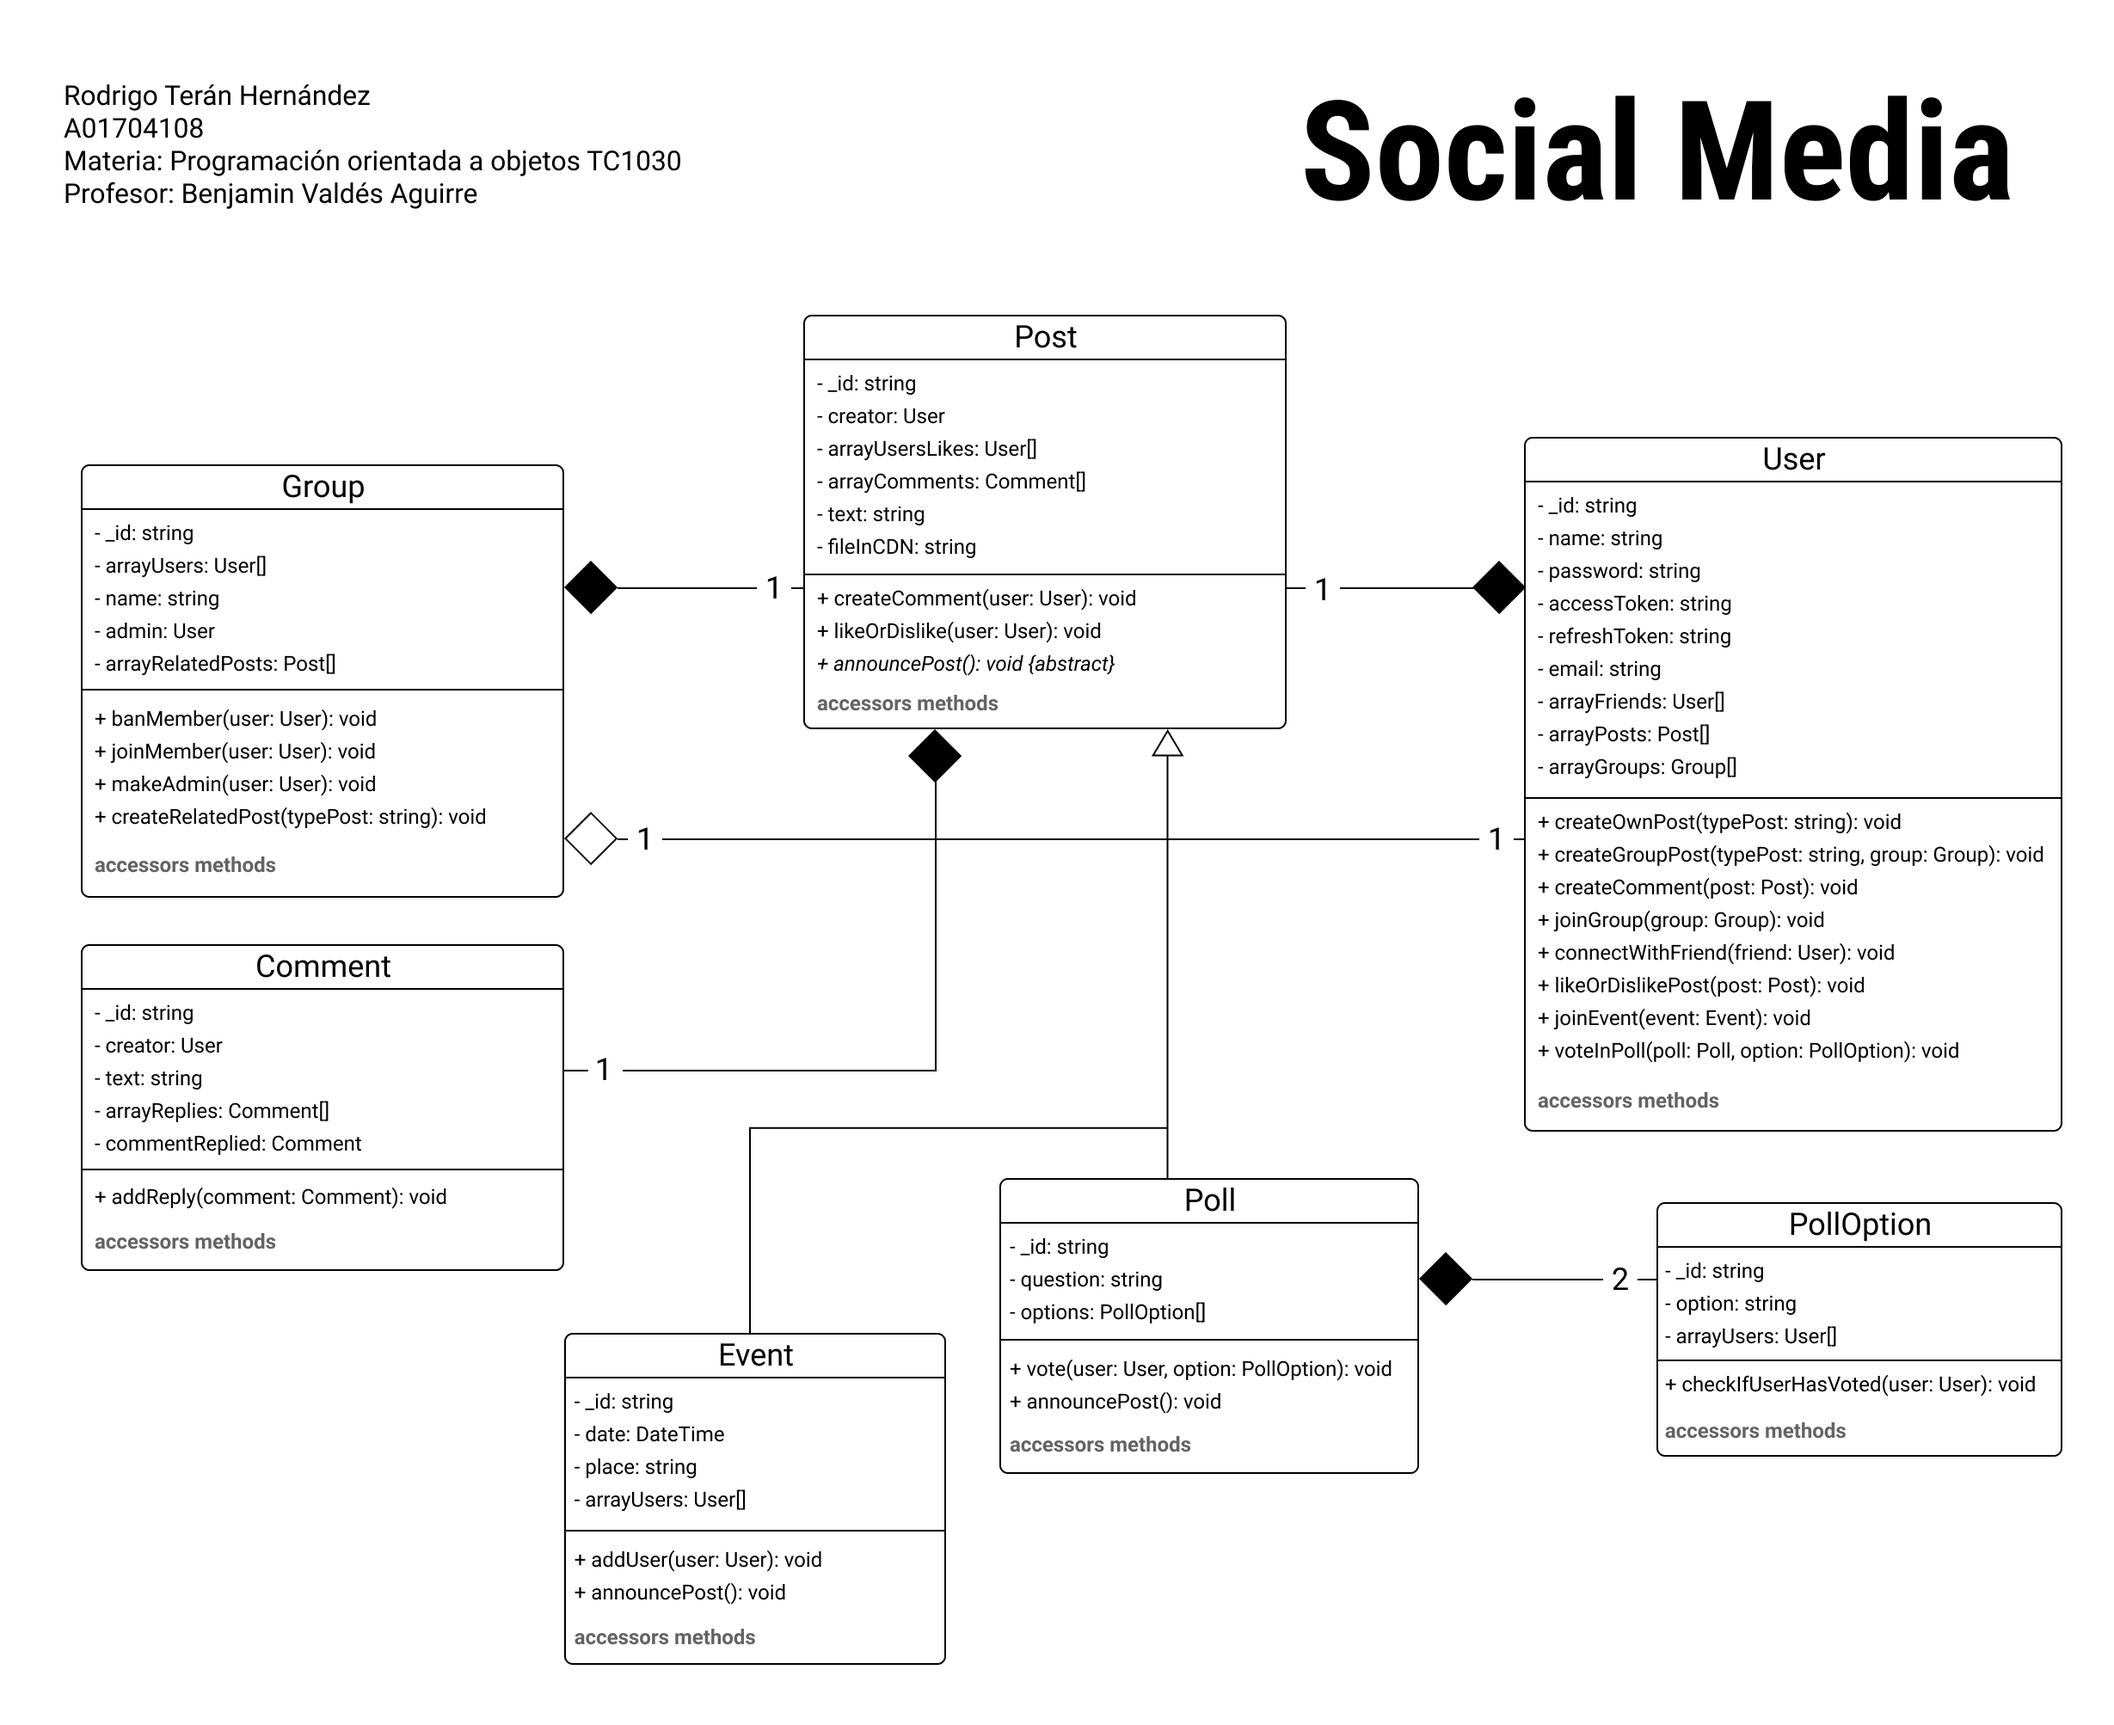
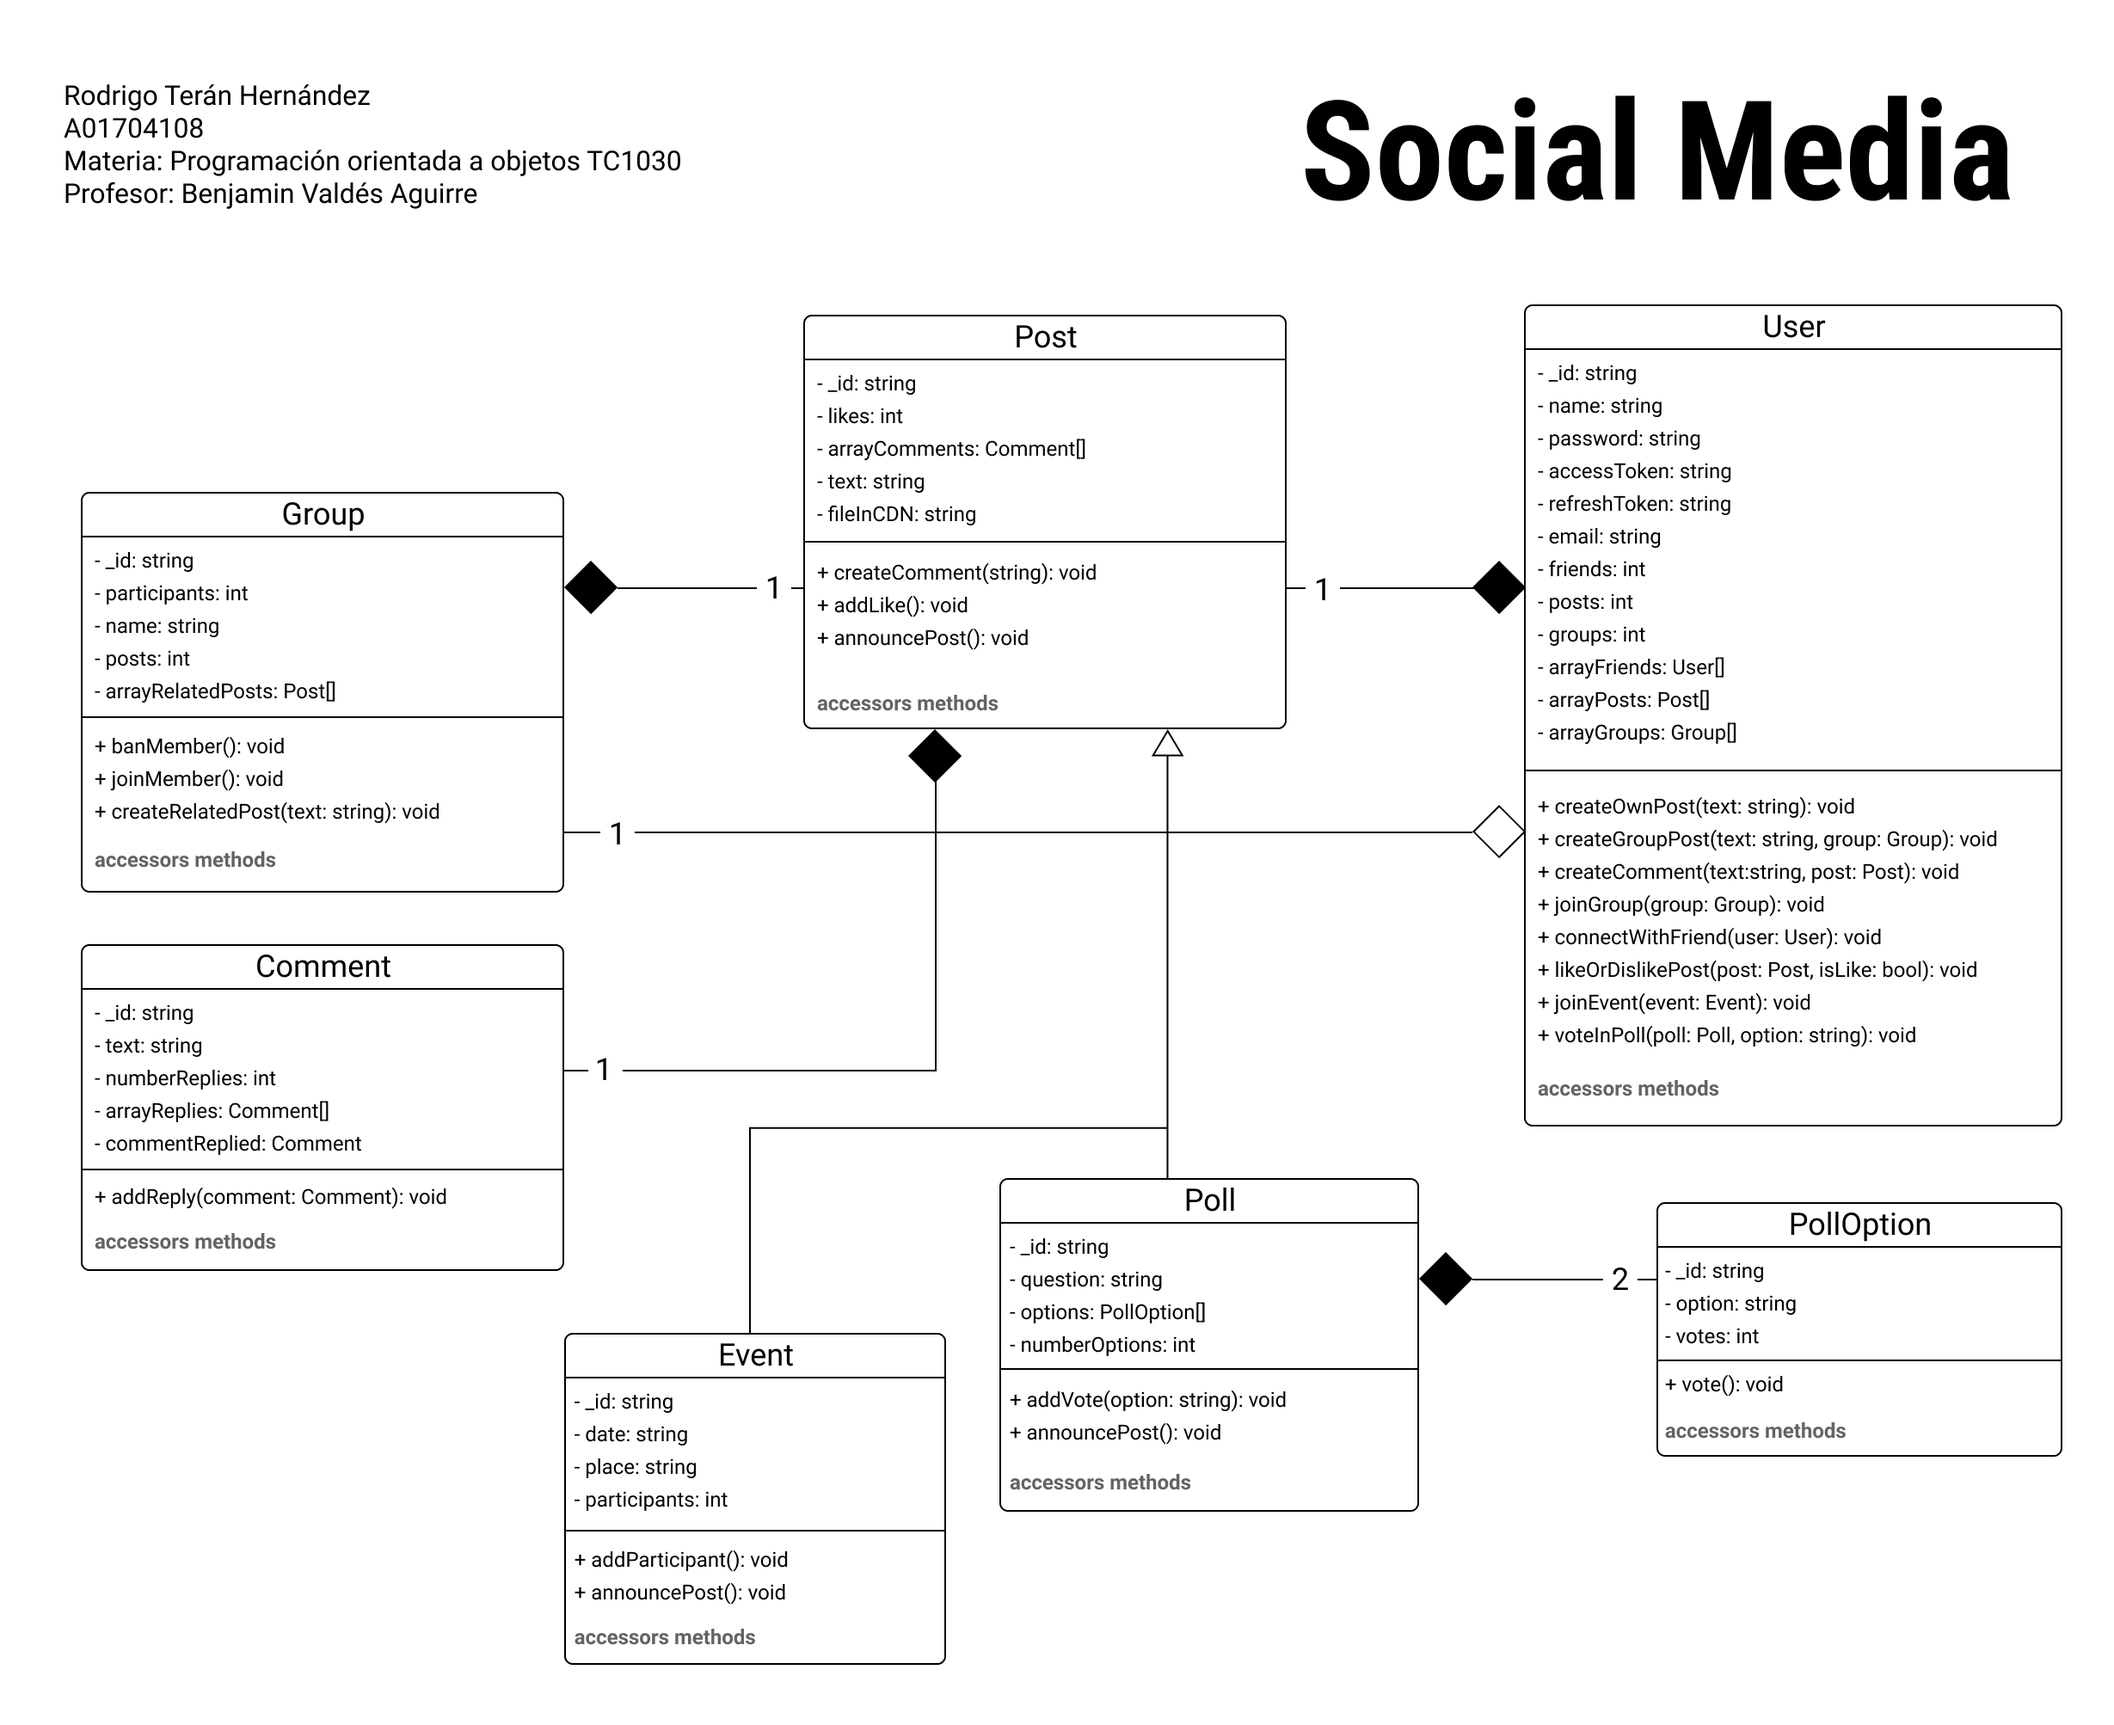
update(UML)

diff --git a/group.h b/group.h
@@ -19,7 +19,7 @@ class Group {
         int participants;
         int posts;
         string name;
-        Post* arrayRelatedPost;
+        Post* arrayRelatedPosts;
     
 
     public:
@@ -44,7 +44,7 @@ class Group {
 
 // Constructors and destructors
 Group::~Group() {
-    delete [] this->arrayRelatedPost;
+    delete [] this->arrayRelatedPosts;
 };
 
 Group::Group() {
@@ -52,7 +52,7 @@ Group::Group() {
     this->name = "";
     this->participants = 0;
     this->posts = 0;
-    this->arrayRelatedPost = new Post[100];
+    this->arrayRelatedPosts = new Post[100];
 };
 
 Group::Group(string name) {
@@ -60,7 +60,7 @@ Group::Group(string name) {
     this->name = name;
     this->participants = 0;
     this->posts = 0;
-    this->arrayRelatedPost = new Post[100];
+    this->arrayRelatedPosts = new Post[100];
 };
 
 
@@ -78,7 +78,7 @@ string Group::getName() {
 };
 
 Post* Group::getArrayRelatedPosts() {
-    return this->arrayRelatedPost;
+    return this->arrayRelatedPosts;
 };
 
 // Setters
@@ -98,7 +98,7 @@ void Group::joinMember() {
 
 void Group::createRelatedPost(string text) {
     Post RelatedPost(text);
-    this->arrayRelatedPost[this->posts] = RelatedPost;
+    this->arrayRelatedPosts[this->posts] = RelatedPost;
     this->posts = this->posts + 1;
 };
 

diff --git a/user.h b/user.h
@@ -60,7 +60,7 @@ class User {
 		void createComment(string, Post);
 		void joinGroup(Group);
 		void connectWithFriend(User);
-		void likeOrDislikePost(Post);
+		void likeOrDislikePost(Post, bool);
 		void joinEvent(Event);
 		void voteInPoll(Poll, string);
 
@@ -203,8 +203,10 @@ void User::connectWithFriend(User user) {
     this->friends = this->friends + 1;
 };
 
-void User::likeOrDislikePost(Post post) {
-	post.addLike();
+void User::likeOrDislikePost(Post post, bool isLike) {
+	if (isLike) {
+		post.addLike();
+	};
 };
 
 void User::joinEvent(Event event) {
